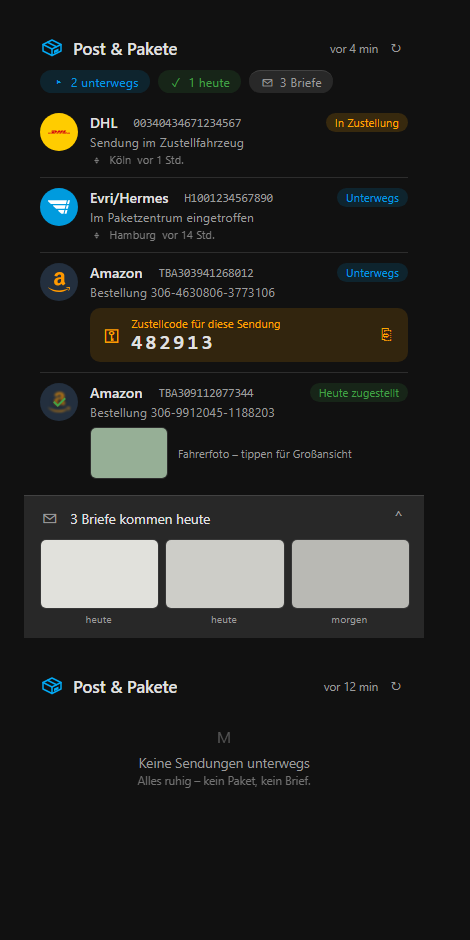
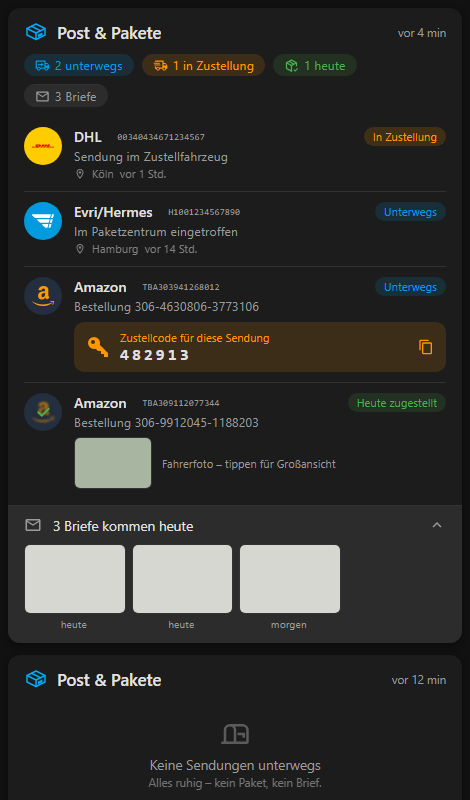
feat: out-for-delivery summary chip between transit and delivered
Rows with status OutForDelivery/AvailableForPickup are counted into a
new orange "in Zustellung" chip; README preview refreshed.

diff --git a/dist/Home-Assistant-Mail-And-Packages-Custom-Card.js b/dist/Home-Assistant-Mail-And-Packages-Custom-Card.js
@@ -40,6 +40,7 @@ const STRINGS = {
   de: {
     title: "Post & Pakete",
     in_transit: "unterwegs",
+    out_for_delivery: "in Zustellung",
     delivered_today: "heute",
     letters: "Briefe",
     letters_today: (n) => (n === 1 ? "1 Brief kommt heute" : `${n} Briefe kommen heute`),
@@ -78,6 +79,7 @@ const STRINGS = {
   en: {
     title: "Mail & Packages",
     in_transit: "in transit",
+    out_for_delivery: "out for delivery",
     delivered_today: "today",
     letters: "letters",
     letters_today: (n) => (n === 1 ? "1 letter arriving today" : `${n} letters arriving today`),
@@ -415,6 +417,7 @@ class MailAndPackagesCard extends LitElement {
     const letterCount = letters.length || this._num(ents.letters);
 
     const { rows, unmatched } = this._shipments(ents, t);
+    const outCount = rows.filter((r) => r.kind === "out").length;
     const hub = this._st(ents.hub);
     const hubCodes = (hub && hub.attributes.code) || [];
 
@@ -476,6 +479,11 @@ class MailAndPackagesCard extends LitElement {
                 ${transit > 0
                   ? html`<span class="chip transit" @click=${() => this._moreInfo(ents.transit)}>
                       <ha-icon icon="mdi:truck-delivery-outline"></ha-icon>${transit} ${t.in_transit}
+                    </span>`
+                  : ""}
+                ${outCount > 0
+                  ? html`<span class="chip out" @click=${() => this._moreInfo(ents.universal || ents.transit)}>
+                      <ha-icon icon="mdi:truck-fast-outline"></ha-icon>${outCount} ${t.out_for_delivery}
                     </span>`
                   : ""}
                 ${delivered > 0
@@ -753,6 +761,10 @@ class MailAndPackagesCard extends LitElement {
       .chip.transit {
         background: color-mix(in srgb, var(--info-color, #039be5) 14%, transparent);
         color: var(--info-color, #0277bd);
+      }
+      .chip.out {
+        background: color-mix(in srgb, var(--warning-color, #ff9800) 14%, transparent);
+        color: var(--warning-color, #b26a00);
       }
       .chip.delivered {
         background: color-mix(in srgb, var(--success-color, #4caf50) 14%, transparent);
